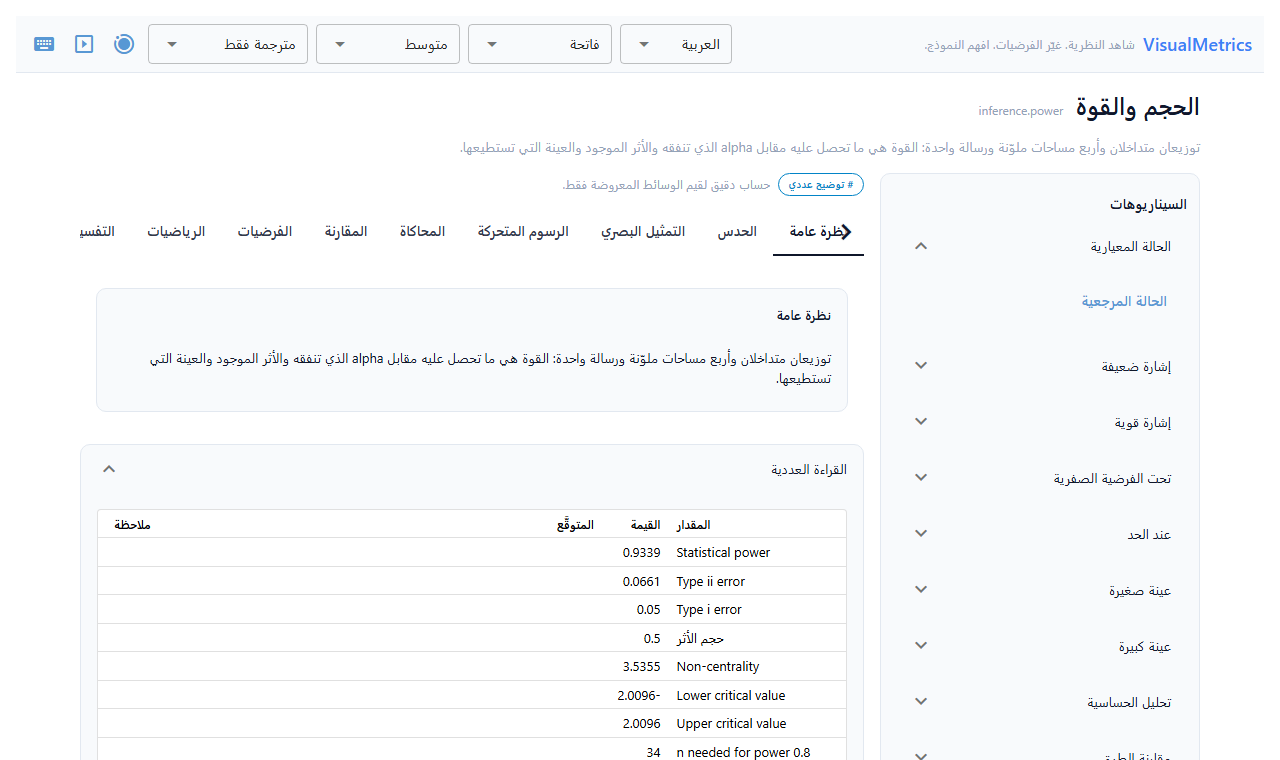
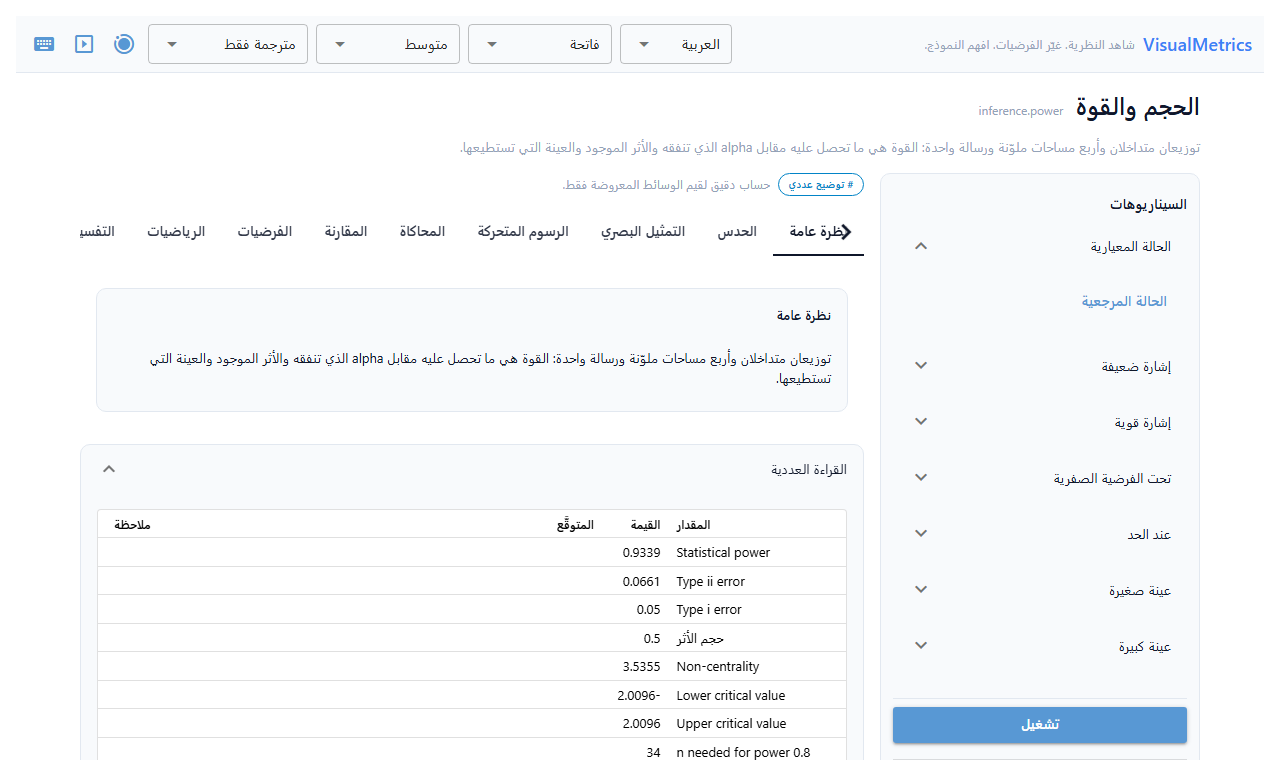
Re-record the walkthrough against the fixed layout
The screenshots and the GIF still showed the control panel stretching the page,
with Run below the fold - the very bug that was fixed. They now show the panel
scrolling inside itself with Run pinned beneath it, and the result on screen
beside it.

The step-by-step guide gains two lines to match: what the pinned action is for,
and that an explicit run brings the result into view.

diff --git a/README.md b/README.md
@@ -152,7 +152,8 @@ Three things to notice before you touch anything:
 |---|---|
 | **The evidence badge**, above the tabs | Says what kind of claim this figure makes — here `# Numerical demonstration`, with its caveat beside it. It is never decoration |
 | **The knowledge tabs** | Overview, Intuition, Visualize, Animate, Simulation, Compare, Assumptions, Mathematics, Interpretation, Common mistakes, Warnings, Code. A tab appears only when the lab has something to put in it |
-| **The scenarios panel**, on the left | Grouped by *what they are for*, not listed flat |
+| **The scenarios panel**, on the left | Grouped by *what they are for*, not listed flat. The list scrolls inside the panel while **Run stays pinned below it**, so the action is always one click away and the result never scrolls off screen to reach it |
+| **The numeric read-out**, under the figures | Every quantity the run produced, with the theoretical value beside it where theory supplies one |
 
 ### 3. Change the assumption
 
@@ -170,8 +171,10 @@ that only shows the happy path is rejected by the test suite.
 ![After changing the scenario](https://raw.githubusercontent.com/merwanroudane/visualmetrics/main/docs/assets/screenshot-scenario.png)
 
 Pick one and the figures, the numbers, the assumptions and the warnings all
-re-compute. Below the controls you can set a seed, copy a link that reproduces
-exactly this view, or export the whole thing.
+re-compute — and the result scrolls into view, so you always see what changed.
+
+Under the result you can set a seed, draw a new one, copy a link that
+reproduces exactly this view, or export the whole thing.
 
 ### 4. Watch the animation explain itself
 
